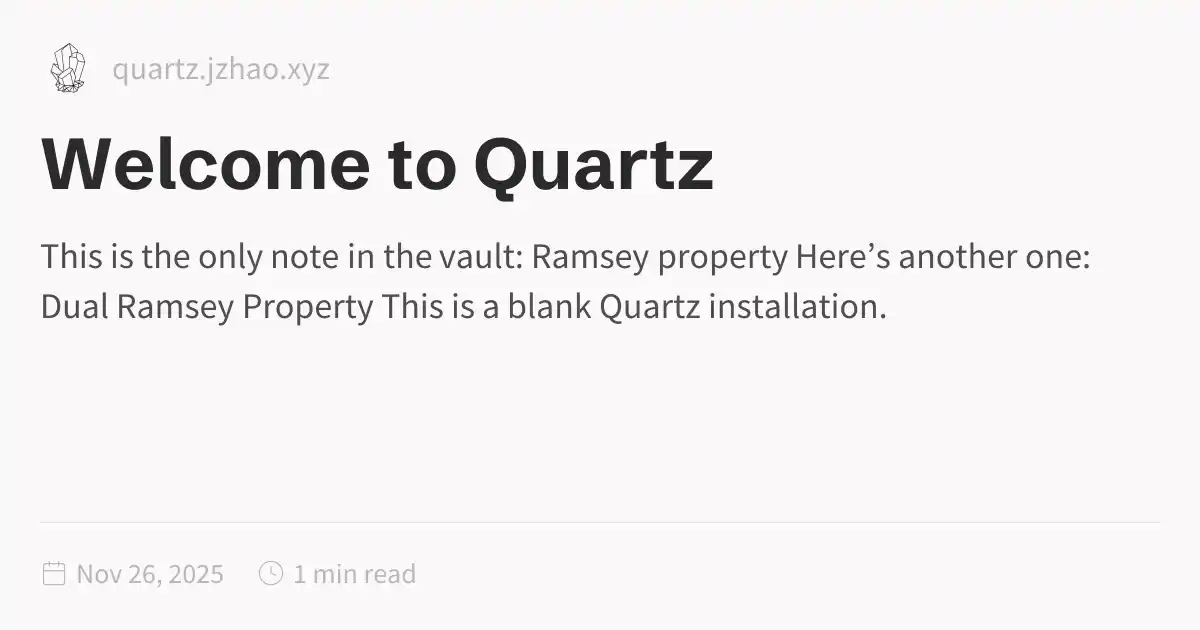
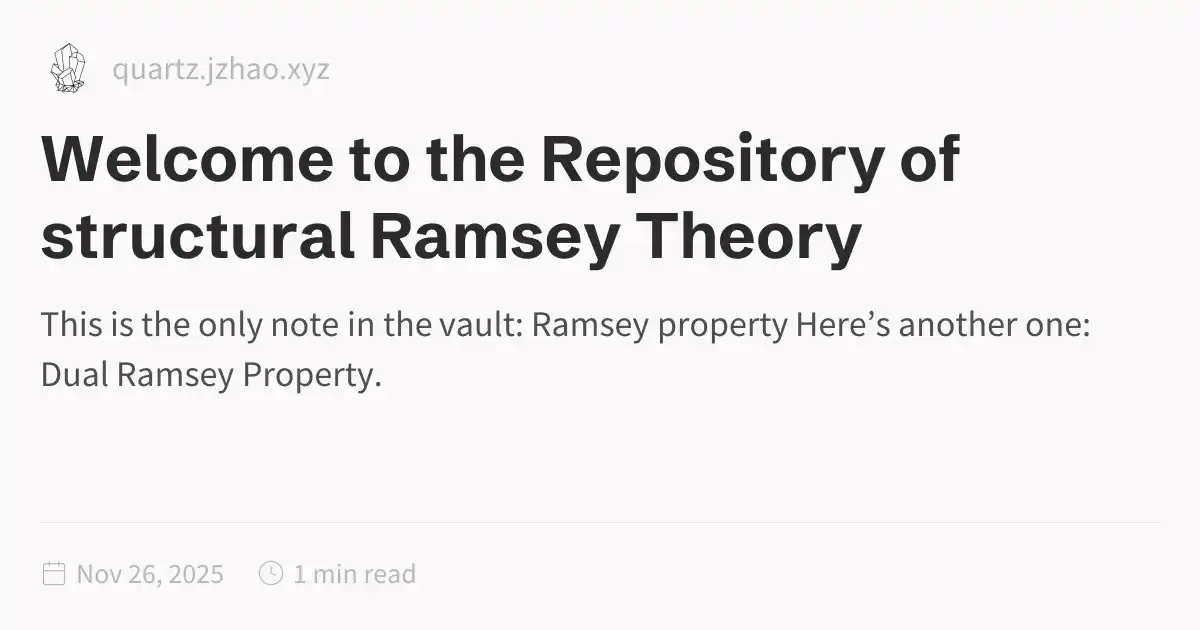
Quartz sync: Nov 26, 2025, 12:35 PM

Changed region(s): [[0.0308, 0.2111, 0.925, 0.5429], [0.0308, 0.573, 0.3083, 0.6333]]

diff --git a/public/index.html b/public/index.html
@@ -1,5 +1,5 @@
 <!DOCTYPE html>
-<html lang="en" dir="ltr"><head><title>Welcome to Quartz</title><meta charset="utf-8"/><link rel="preconnect" href="https://fonts.googleapis.com"/><link rel="preconnect" href="https://fonts.gstatic.com"/><link rel="stylesheet" href="https://fonts.googleapis.com/css2?family=Schibsted Grotesk:wght@400;700&amp;family=Source Sans Pro:ital,wght@0,400;0,600;1,400;1,600&amp;family=IBM Plex Mono:wght@400;600&amp;display=swap"/><link rel="preconnect" href="https://cdnjs.cloudflare.com" crossorigin="anonymous"/><meta name="viewport" content="width=device-width, initial-scale=1.0"/><meta name="og:site_name" content="Quartz 4"/><meta property="og:title" content="Welcome to Quartz"/><meta property="og:type" content="website"/><meta name="twitter:card" content="summary_large_image"/><meta name="twitter:title" content="Welcome to Quartz"/><meta name="twitter:description" content="This is the only note in the vault: Ramsey property Here’s another one: Dual Ramsey Property This is a blank Quartz installation."/><meta property="og:description" content="This is the only note in the vault: Ramsey property Here’s another one: Dual Ramsey Property This is a blank Quartz installation."/><meta property="og:image:alt" content="This is the only note in the vault: Ramsey property Here’s another one: Dual Ramsey Property This is a blank Quartz installation."/><meta property="twitter:domain" content="quartz.jzhao.xyz"/><meta property="og:url" content="https://quartz.jzhao.xyz/index"/><meta property="twitter:url" content="https://quartz.jzhao.xyz/index"/><link rel="icon" href="./static/icon.png"/><meta name="description" content="This is the only note in the vault: Ramsey property Here’s another one: Dual Ramsey Property This is a blank Quartz installation."/><meta name="generator" content="Quartz"/><link href="./index.css" rel="stylesheet" type="text/css" spa-preserve/><style>.expand-button {
+<html lang="en" dir="ltr"><head><title>Welcome to the Repository of structural Ramsey Theory</title><meta charset="utf-8"/><link rel="preconnect" href="https://fonts.googleapis.com"/><link rel="preconnect" href="https://fonts.gstatic.com"/><link rel="stylesheet" href="https://fonts.googleapis.com/css2?family=Schibsted Grotesk:wght@400;700&amp;family=Source Sans Pro:ital,wght@0,400;0,600;1,400;1,600&amp;family=IBM Plex Mono:wght@400;600&amp;display=swap"/><link rel="preconnect" href="https://cdnjs.cloudflare.com" crossorigin="anonymous"/><meta name="viewport" content="width=device-width, initial-scale=1.0"/><meta name="og:site_name" content="Quartz 4"/><meta property="og:title" content="Welcome to the Repository of structural Ramsey Theory"/><meta property="og:type" content="website"/><meta name="twitter:card" content="summary_large_image"/><meta name="twitter:title" content="Welcome to the Repository of structural Ramsey Theory"/><meta name="twitter:description" content="This is the only note in the vault: Ramsey property Here’s another one: Dual Ramsey Property."/><meta property="og:description" content="This is the only note in the vault: Ramsey property Here’s another one: Dual Ramsey Property."/><meta property="og:image:alt" content="This is the only note in the vault: Ramsey property Here’s another one: Dual Ramsey Property."/><meta property="twitter:domain" content="quartz.jzhao.xyz"/><meta property="og:url" content="https://quartz.jzhao.xyz/index"/><meta property="twitter:url" content="https://quartz.jzhao.xyz/index"/><link rel="icon" href="./static/icon.png"/><meta name="description" content="This is the only note in the vault: Ramsey property Here’s another one: Dual Ramsey Property."/><meta name="generator" content="Quartz"/><link href="./index.css" rel="stylesheet" type="text/css" spa-preserve/><style>.expand-button {
   position: absolute;
   display: flex;
   float: right;
@@ -116,12 +116,10 @@ pre:hover > .expand-button {
   padding: 0 12px;
   font-size: 14px;
 }
[2 lines of base64/hex data omitted]
 <a href="./Ramsey-property" class="internal alias" data-slug="Ramsey-property">Ramsey property</a></p>
 <p>Here’s another one:
-<a href="./Dual-Ramsey-Property" class="internal alias" data-slug="Dual-Ramsey-Property">Dual Ramsey Property</a></p>
-<p>This is a blank Quartz installation.
-See the <a href="https://quartz.jzhao.xyz" class="external">documentation<svg aria-hidden="true" class="external-icon" style="max-width:0.8em;max-height:0.8em;" viewBox="0 0 512 512"><path d="M320 0H288V64h32 82.7L201.4 265.4 178.7 288 224 333.3l22.6-22.6L448 109.3V192v32h64V192 32 0H480 320zM32 32H0V64 480v32H32 456h32V480 352 320H424v32 96H64V96h96 32V32H160 32z"></path></svg></a> for how to get started.</p></article><hr/><div class="page-footer"></div></div><div class="right sidebar"><div class="graph"><h3>Graph View</h3><div class="graph-outer"><div class="graph-container" data-cfg="{&quot;drag&quot;:true,&quot;zoom&quot;:true,&quot;depth&quot;:1,&quot;scale&quot;:1.1,&quot;repelForce&quot;:0.5,&quot;centerForce&quot;:0.3,&quot;linkDistance&quot;:30,&quot;fontSize&quot;:0.6,&quot;opacityScale&quot;:1,&quot;showTags&quot;:true,&quot;removeTags&quot;:[],&quot;focusOnHover&quot;:false,&quot;enableRadial&quot;:false}"></div><button class="global-graph-icon" aria-label="Global Graph"><svg version="1.1" xmlns="http://www.w3.org/2000/svg" xmlns:xlink="http://www.w3.org/1999/xlink" x="0px" y="0px" viewBox="0 0 55 55" fill="currentColor" xml:space="preserve"><path d="M49,0c-3.309,0-6,2.691-6,6c0,1.035,0.263,2.009,0.726,2.86l-9.829,9.829C32.542,17.634,30.846,17,29,17
+<a href="./Dual-Ramsey-Property" class="internal alias" data-slug="Dual-Ramsey-Property">Dual Ramsey Property</a></p></article><hr/><div class="page-footer"></div></div><div class="right sidebar"><div class="graph"><h3>Graph View</h3><div class="graph-outer"><div class="graph-container" data-cfg="{&quot;drag&quot;:true,&quot;zoom&quot;:true,&quot;depth&quot;:1,&quot;scale&quot;:1.1,&quot;repelForce&quot;:0.5,&quot;centerForce&quot;:0.3,&quot;linkDistance&quot;:30,&quot;fontSize&quot;:0.6,&quot;opacityScale&quot;:1,&quot;showTags&quot;:true,&quot;removeTags&quot;:[],&quot;focusOnHover&quot;:false,&quot;enableRadial&quot;:false}"></div><button class="global-graph-icon" aria-label="Global Graph"><svg version="1.1" xmlns="http://www.w3.org/2000/svg" xmlns:xlink="http://www.w3.org/1999/xlink" x="0px" y="0px" viewBox="0 0 55 55" fill="currentColor" xml:space="preserve"><path d="M49,0c-3.309,0-6,2.691-6,6c0,1.035,0.263,2.009,0.726,2.86l-9.829,9.829C32.542,17.634,30.846,17,29,17
                 s-3.542,0.634-4.898,1.688l-7.669-7.669C16.785,10.424,17,9.74,17,9c0-2.206-1.794-4-4-4S9,6.794,9,9s1.794,4,4,4
                 c0.74,0,1.424-0.215,2.019-0.567l7.669,7.669C21.634,21.458,21,23.154,21,25s0.634,3.542,1.688,4.897L10.024,42.562
                 C8.958,41.595,7.549,41,6,41c-3.309,0-6,2.691-6,6s2.691,6,6,6s6-2.691,6-6c0-1.035-0.263-2.009-0.726-2.86l12.829-12.829

diff --git a/public/Ramsey-property.html b/public/Ramsey-property.html
@@ -131,6 +131,6 @@ Let <span class="katex"><span class="katex-html" aria-hidden="true"><span class=
                 C46.042,11.405,47.451,12,49,12c3.309,0,6-2.691,6-6S52.309,0,49,0z M11,9c0-1.103,0.897-2,2-2s2,0.897,2,2s-0.897,2-2,2
                 S11,10.103,11,9z M6,51c-2.206,0-4-1.794-4-4s1.794-4,4-4s4,1.794,4,4S8.206,51,6,51z M33,49c0,2.206-1.794,4-4,4s-4-1.794-4-4
                 s1.794-4,4-4S33,46.794,33,49z M29,31c-3.309,0-6-2.691-6-6s2.691-6,6-6s6,2.691,6,6S32.309,31,29,31z M47,41c0,1.103-0.897,2-2,2
-                s-2-0.897-2-2s0.897-2,2-2S47,39.897,47,41z M49,10c-2.206,0-4-1.794-4-4s1.794-4,4-4s4,1.794,4,4S51.206,10,49,10z"></path></svg></button></div><div class="global-graph-outer"><div class="global-graph-container" data-cfg="{&quot;drag&quot;:true,&quot;zoom&quot;:true,&quot;depth&quot;:-1,&quot;scale&quot;:0.9,&quot;repelForce&quot;:0.5,&quot;centerForce&quot;:0.2,&quot;linkDistance&quot;:30,&quot;fontSize&quot;:0.6,&quot;opacityScale&quot;:1,&quot;showTags&quot;:true,&quot;removeTags&quot;:[],&quot;focusOnHover&quot;:true,&quot;enableRadial&quot;:true}"></div></div></div><div class="backlinks"><h3>Backlinks</h3><ul id="list-2" class="overflow"><li><a href="./" class="internal">Welcome to Quartz</a></li><li class="overflow-end"></li></ul></div></div><footer class><p>Created with <a href="https://quartz.jzhao.xyz/">Quartz v4.5.2</a> © 2025</p><ul><li><a href="https://github.com/jackyzha0/quartz">GitHub</a></li><li><a href="https://discord.gg/cRFFHYye7t">Discord Community</a></li></ul></footer></div></div></body><script type="application/javascript">function n(){let t=this.parentElement;t.classList.toggle("is-collapsed");let e=t.getElementsByClassName("callout-content")[0];if(!e)return;let l=t.classList.contains("is-collapsed");e.style.gridTemplateRows=l?"0fr":"1fr"}function c(){let t=document.getElementsByClassName("callout is-collapsible");for(let e of t){let l=e.getElementsByClassName("callout-title")[0],s=e.getElementsByClassName("callout-content")[0];if(!l||!s)continue;l.addEventListener("click",n),window.addCleanup(()=>l.removeEventListener("click",n));let o=e.classList.contains("is-collapsed");s.style.gridTemplateRows=o?"0fr":"1fr"}}document.addEventListener("nav",c);
+                s-2-0.897-2-2s0.897-2,2-2S47,39.897,47,41z M49,10c-2.206,0-4-1.794-4-4s1.794-4,4-4s4,1.794,4,4S51.206,10,49,10z"></path></svg></button></div><div class="global-graph-outer"><div class="global-graph-container" data-cfg="{&quot;drag&quot;:true,&quot;zoom&quot;:true,&quot;depth&quot;:-1,&quot;scale&quot;:0.9,&quot;repelForce&quot;:0.5,&quot;centerForce&quot;:0.2,&quot;linkDistance&quot;:30,&quot;fontSize&quot;:0.6,&quot;opacityScale&quot;:1,&quot;showTags&quot;:true,&quot;removeTags&quot;:[],&quot;focusOnHover&quot;:true,&quot;enableRadial&quot;:true}"></div></div></div><div class="backlinks"><h3>Backlinks</h3><ul id="list-2" class="overflow"><li><a href="./" class="internal">Welcome to the Repository of structural Ramsey Theory</a></li><li class="overflow-end"></li></ul></div></div><footer class><p>Created with <a href="https://quartz.jzhao.xyz/">Quartz v4.5.2</a> © 2025</p><ul><li><a href="https://github.com/jackyzha0/quartz">GitHub</a></li><li><a href="https://discord.gg/cRFFHYye7t">Discord Community</a></li></ul></footer></div></div></body><script type="application/javascript">function n(){let t=this.parentElement;t.classList.toggle("is-collapsed");let e=t.getElementsByClassName("callout-content")[0];if(!e)return;let l=t.classList.contains("is-collapsed");e.style.gridTemplateRows=l?"0fr":"1fr"}function c(){let t=document.getElementsByClassName("callout is-collapsible");for(let e of t){let l=e.getElementsByClassName("callout-title")[0],s=e.getElementsByClassName("callout-content")[0];if(!l||!s)continue;l.addEventListener("click",n),window.addCleanup(()=>l.removeEventListener("click",n));let o=e.classList.contains("is-collapsed");s.style.gridTemplateRows=o?"0fr":"1fr"}}document.addEventListener("nav",c);
 </script><script type="module">function f(i,e){if(!i)return;function r(o){o.target===this&&(o.preventDefault(),o.stopPropagation(),e())}function t(o){o.key.startsWith("Esc")&&(o.preventDefault(),e())}i?.addEventListener("click",r),window.addCleanup(()=>i?.removeEventListener("click",r)),document.addEventListener("keydown",t),window.addCleanup(()=>document.removeEventListener("keydown",t))}function y(i){for(;i.firstChild;)i.removeChild(i.firstChild)}var h=class{constructor(e,r){this.container=e;this.content=r;this.setupEventListeners(),this.setupNavigationControls(),this.resetTransform()}isDragging=!1;startPan={x:0,y:0};currentPan={x:0,y:0};scale=1;MIN_SCALE=.5;MAX_SCALE=3;cleanups=[];setupEventListeners(){let e=this.onMouseDown.bind(this),r=this.onMouseMove.bind(this),t=this.onMouseUp.bind(this),o=this.resetTransform.bind(this);this.container.addEventListener("mousedown",e),document.addEventListener("mousemove",r),document.addEventListener("mouseup",t),window.addEventListener("resize",o),this.cleanups.push(()=>this.container.removeEventListener("mousedown",e),()=>document.removeEventListener("mousemove",r),()=>document.removeEventListener("mouseup",t),()=>window.removeEventListener("resize",o))}cleanup(){for(let e of this.cleanups)e()}setupNavigationControls(){let e=document.createElement("div");e.className="mermaid-controls";let r=this.createButton("+",()=>this.zoom(.1)),t=this.createButton("-",()=>this.zoom(-.1)),o=this.createButton("Reset",()=>this.resetTransform());e.appendChild(t),e.appendChild(o),e.appendChild(r),this.container.appendChild(e)}createButton(e,r){let t=document.createElement("button");return t.textContent=e,t.className="mermaid-control-button",t.addEventListener("click",r),window.addCleanup(()=>t.removeEventListener("click",r)),t}onMouseDown(e){e.button===0&&(this.isDragging=!0,this.startPan={x:e.clientX-this.currentPan.x,y:e.clientY-this.currentPan.y},this.container.style.cursor="grabbing")}onMouseMove(e){this.isDragging&&(e.preventDefault(),this.currentPan={x:e.clientX-this.startPan.x,y:e.clientY-this.startPan.y},this.updateTransform())}onMouseUp(){this.isDragging=!1,this.container.style.cursor="grab"}zoom(e){let r=Math.min(Math.max(this.scale+e,this.MIN_SCALE),this.MAX_SCALE),t=this.content.getBoundingClientRect(),o=t.width/2,n=t.height/2,c=r-this.scale;this.currentPan.x-=o*c,this.currentPan.y-=n*c,this.scale=r,this.updateTransform()}updateTransform(){this.content.style.transform=`translate(${this.currentPan.x}px, ${this.currentPan.y}px) scale(${this.scale})`}resetTransform(){this.scale=1;let e=this.content.querySelector("svg");this.currentPan={x:e.getBoundingClientRect().width/2,y:e.getBoundingClientRect().height/2},this.updateTransform()}},C=["--secondary","--tertiary","--gray","--light","--lightgray","--highlight","--dark","--darkgray","--codeFont"],E;document.addEventListener("nav",async()=>{let e=document.querySelector(".center").querySelectorAll("code.mermaid");if(e.length===0)return;E||=await import("https://cdnjs.cloudflare.com/ajax/libs/mermaid/11.4.0/mermaid.esm.min.mjs");let r=E.default,t=new WeakMap;for(let n of e)t.set(n,n.innerText);async function o(){for(let s of e){s.removeAttribute("data-processed");let a=t.get(s);a&&(s.innerHTML=a)}let n=C.reduce((s,a)=>(s[a]=window.getComputedStyle(document.documentElement).getPropertyValue(a),s),{}),c=document.documentElement.getAttribute("saved-theme")==="dark";r.initialize({startOnLoad:!1,securityLevel:"loose",theme:c?"dark":"base",themeVariables:{fontFamily:n["--codeFont"],primaryColor:n["--light"],primaryTextColor:n["--darkgray"],primaryBorderColor:n["--tertiary"],lineColor:n["--darkgray"],secondaryColor:n["--secondary"],tertiaryColor:n["--tertiary"],clusterBkg:n["--light"],edgeLabelBackground:n["--highlight"]}}),await r.run({nodes:e})}await o(),document.addEventListener("themechange",o),window.addCleanup(()=>document.removeEventListener("themechange",o));for(let n=0;n<e.length;n++){let v=function(){let g=l.querySelector("#mermaid-space"),m=l.querySelector(".mermaid-content");if(!m)return;y(m);let w=c.querySelector("svg").cloneNode(!0);m.appendChild(w),l.classList.add("active"),g.style.cursor="grab",u=new h(g,m)},M=function(){l.classList.remove("active"),u?.cleanup(),u=null},c=e[n],s=c.parentElement,a=s.querySelector(".clipboard-button"),d=s.querySelector(".expand-button"),p=window.getComputedStyle(a),L=a.offsetWidth+parseFloat(p.marginLeft||"0")+parseFloat(p.marginRight||"0");d.style.right=`calc(${L}px + 0.3rem)`,s.prepend(d);let l=s.querySelector("#mermaid-container");if(!l)return;let u=null;d.addEventListener("click",v),f(l,M),window.addCleanup(()=>{u?.cleanup(),d.removeEventListener("click",v)})}});
 </script><script src="https://cdn.jsdelivr.net/npm/katex@0.16.11/dist/contrib/copy-tex.min.js" type="application/javascript"></script><script src="./postscript.js" type="module"></script></html>

diff --git a/content/index.md b/content/index.md
@@ -1,12 +1,9 @@
 ---
-title: Welcome to Quartz
+title: Welcome to the Repository of structural Ramsey Theory
 ---
 This is the only note in the vault:
 [[Ramsey property]]
 
 Here's another one:
 [[Dual Ramsey Property]]
-
-This is a blank Quartz installation.
-See the [documentation](https://quartz.jzhao.xyz) for how to get started.
 
